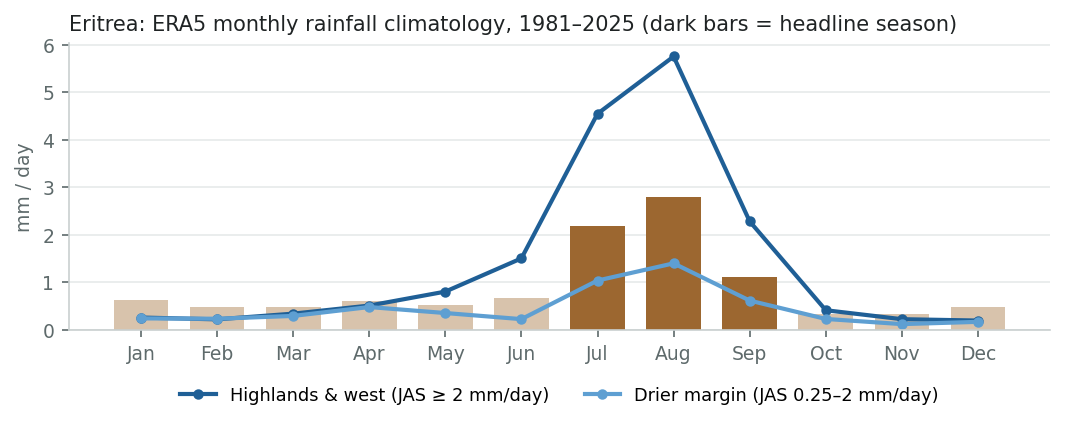
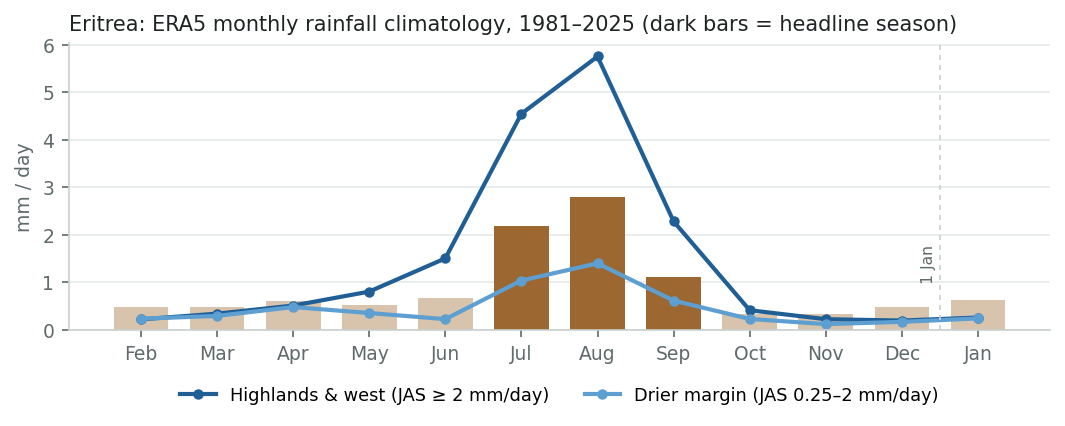
Deep dives: centre the climatology chart on the headline season (month axis rotates; 1 Jan marked)

diff --git a/enso_deep_dive.py b/enso_deep_dive.py
@@ -174,16 +174,24 @@ def fig_seasonal_cycle(c: Country, grid: Grid, headline: list[int], out: Path, n
     for m in range(1, 13):
         pos = [grid.mpos[(y, m)] for y in grid.years if (y, m) in grid.mpos]
         clim[m - 1] = c.sub[pos][:, c.mask].mean()
+    # Rotate the month axis so the headline season sits in the middle of the chart
+    # (a Nov–Apr season is unreadable when the year starts in January).
+    mid = headline[len(headline) // 2] - 1
+    order = [(mid + 6 + k) % 12 for k in range(12)]        # 0-based month indices, left to right
     fig, ax = plt.subplots(figsize=(7.2, 3.0), dpi=150)
-    cols = ["#9C6730" if (m + 1) in headline else "#D8C3AC" for m in range(12)]
-    ax.bar(range(12), clim, color=cols, width=0.72)
+    cols = ["#9C6730" if (m + 1) in headline else "#D8C3AC" for m in order]
+    ax.bar(range(12), clim[order], color=cols, width=0.72)
     if zones:
         for (label, zm), col in zip(zones.items(), ["#1F5F96", "#5E9FD2", "#18614c"]):
-            z = [c.sub[[grid.mpos[(y, m)] for y in grid.years if (y, m) in grid.mpos]][:, zm].mean()
-                 for m in range(1, 13)]
-            ax.plot(range(12), z, color=col, lw=2, marker="o", ms=4, label=label)
+            z = np.array([c.sub[[grid.mpos[(y, m)] for y in grid.years if (y, m) in grid.mpos]][:, zm].mean()
+                          for m in range(1, 13)])
+            ax.plot(range(12), z[order], color=col, lw=2, marker="o", ms=4, label=label)
         ax.legend(frameon=False, fontsize=8.5, loc="upper center", bbox_to_anchor=(0.5, -0.14), ncol=3)
-    ax.set_xticks(range(12)); ax.set_xticklabels(MONTH_NAMES)
+    ax.set_xticks(range(12)); ax.set_xticklabels([MONTH_NAMES[m] for m in order])
+    if order[0] != 0:  # mark where the calendar year turns over
+        jan = order.index(0)
+        ax.axvline(jan - 0.5, color="#c9d0d0", lw=0.8, ls=(0, (3, 3)))
+        ax.text(jan - 0.55, clim.max() * 0.5, "1 Jan", fontsize=7.5, color=C_MUTED, rotation=90, ha="right", va="center")
     ax.set_ylabel("mm / day", fontsize=9, color=C_MUTED)
     ax.set_title(f"{name}: ERA5 monthly rainfall climatology, 1981–{grid.years[-1]} "
                  f"(dark bars = headline season)", fontsize=10, color=C_TEXT, loc="left")
